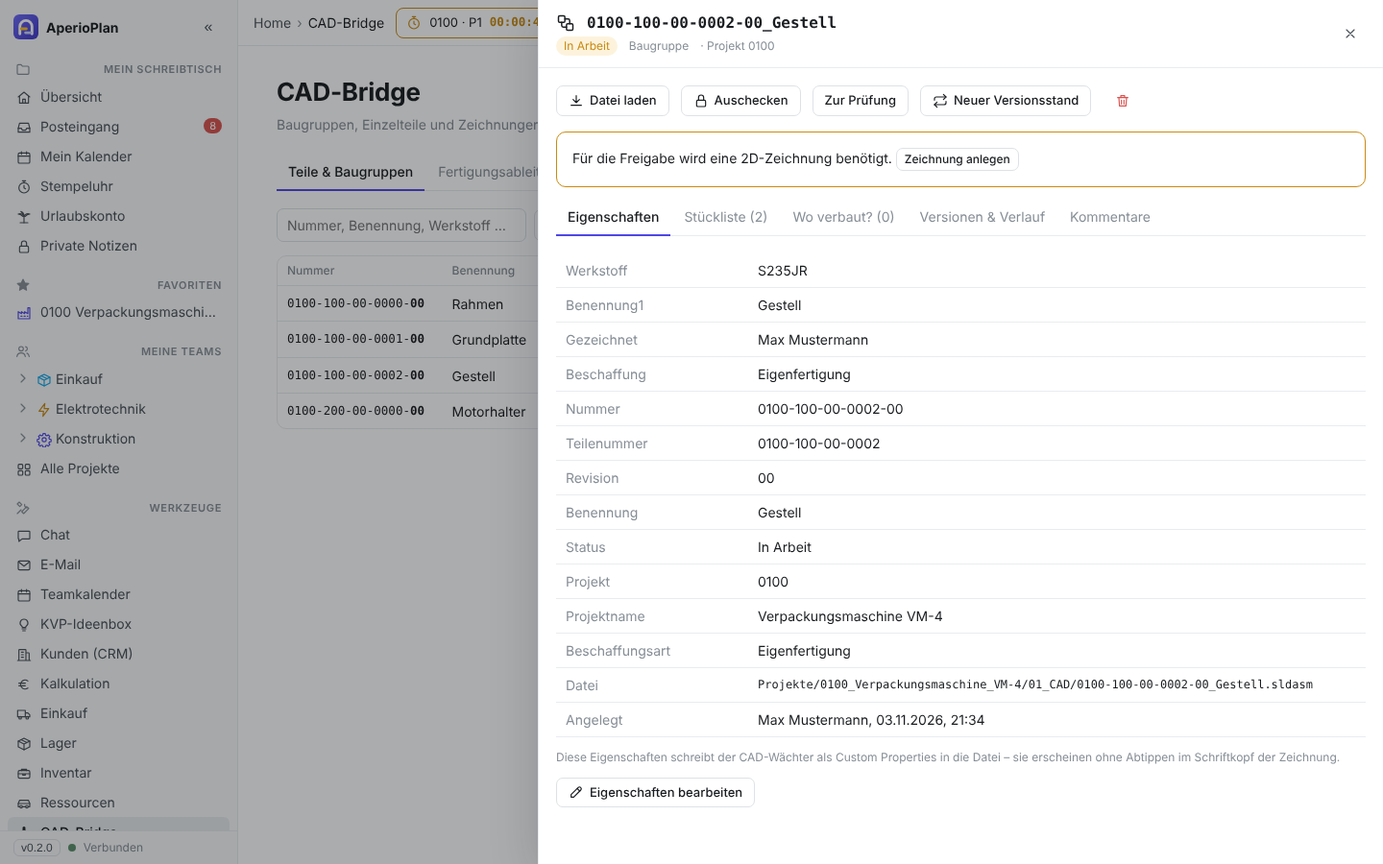
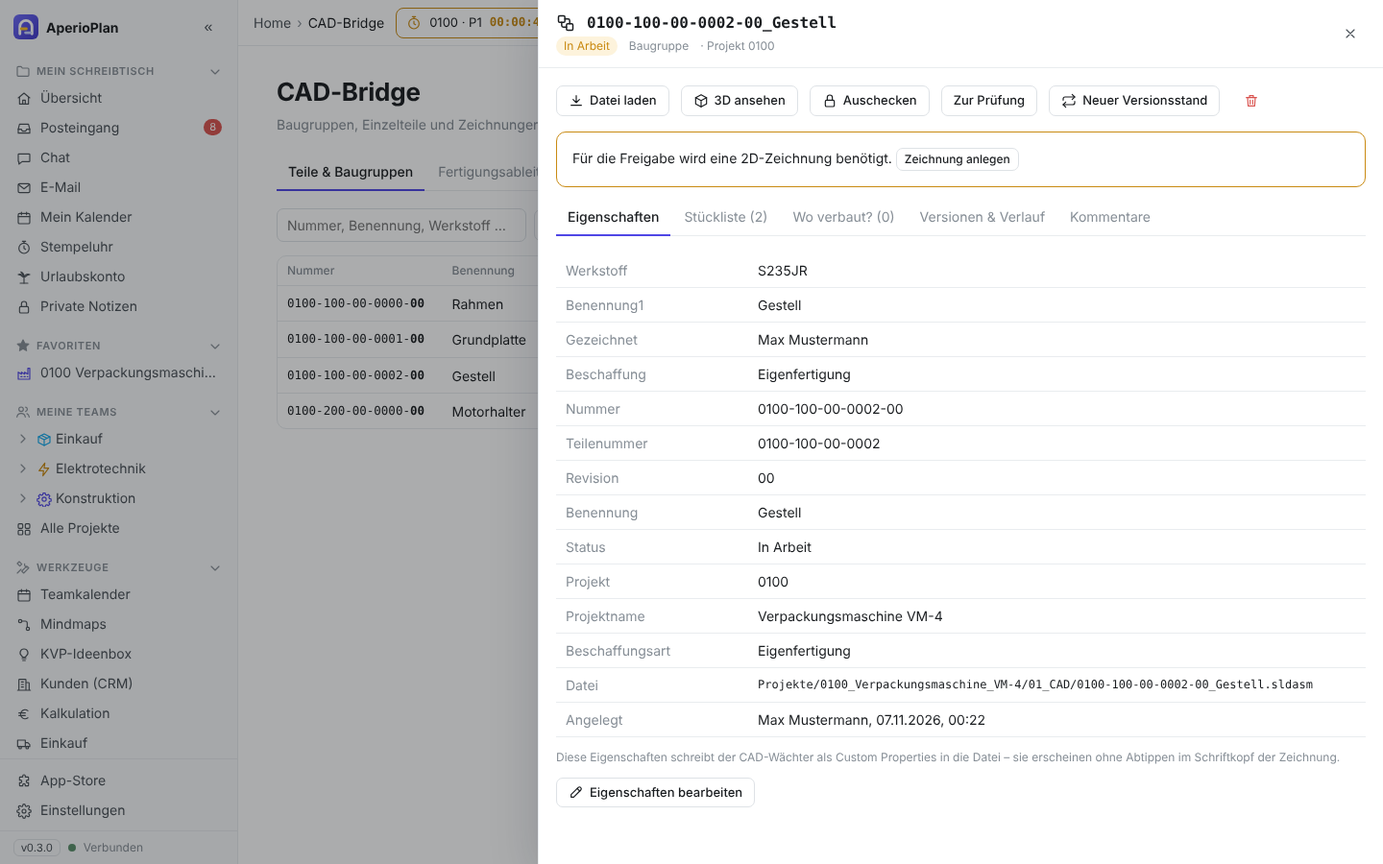
Version 0.3.0: Apps in Projekten, Lager und Einkauf verbunden, 3D-Ansicht im Fenster, Mindmaps wie FreeMind – Handbücher und Bildschirmfotos
Claude-Session: https://claude.ai/code/session_01P44qXYJYH4W67dASVBR164

diff --git a/shared/src/version.ts b/shared/src/version.ts
@@ -12,6 +12,26 @@ export interface ChangelogEntry {
 
 export const CHANGELOG: ChangelogEntry[] = [
   {
+    version: '0.3.0',
+    date: '2026-11-07',
+    title: 'Apps in Projekten, Lager und Einkauf verbunden, 3D-Ansicht und Mindmaps wie FreeMind',
+    changes: [
+      { type: 'neu', text: 'Apps als Reiter im Projekt: Verkauf (Angebote, Rechnungen, Reklamationen), Material, Service, Qualität, Fertigung, Änderungen, Reisekosten, Freigaben, Unterschriften, CO₂, Eingangsrechnungen, Ressourcen und Meetings – jeweils nur mit den Einträgen dieses Projekts, mit Anlegen und Status' },
+      { type: 'neu', text: 'Mit „+“ am Ende der Reiterleiste blendet die Projektleitung weitere Reiter ein; die Standard-Reiter für neue Projekte legt der Administrator fest' },
+      { type: 'neu', text: 'Gesamtübersichten (Einkauf, Angebote, Rechnungen, Service, Qualität, Fertigung, Änderungen, Freigaben, Spesen, E-Signatur, Eingangsrechnungen) lassen sich nach Projekt gruppieren' },
+      { type: 'neu', text: 'Einkauf: Lagerbestellungen ohne Projekt, Positionen mit Lagerartikel und Lagerort; Wareneingang mit Lieferschein, Charge und Seriennummern – wahlweise ins Lager oder gleich ins Projekt' },
+      { type: 'neu', text: 'Verlauf je Bestellposition: Änderungen, Bestellung, Lieferungen und Lagerbewegungen auf einen Blick' },
+      { type: 'neu', text: 'Lager: Nachbestellen direkt am Artikel, Bestellvorschlag als Lagerbestellung, Reiter „Material“ im Projekt mit Entnahme und Rückgabe' },
+      { type: 'neu', text: 'E-Rechnungen mit einer Bestellnummer aus dem Einkauf werden automatisch dem Projekt zugeordnet' },
+      { type: 'neu', text: '3D-Dateien öffnen sich im selben Fenster wie Word-Dateien – mit Schnitt und Messen; zusätzlich FBX, Collada, VRML, AMF, 3DS, VTK und USDZ' },
+      { type: 'neu', text: 'Native CAD-Dateien (SolidWorks, Inventor, Solid Edge, CATIA, Parasolid, JT u. a.): sofort mit dem gespeicherten Vorschaubild, als 3D-Modell nach Umwandlung durch einen CAD-Arbeitsplatz (neuer Umwandlungsdienst der CAD-Bridge)' },
+      { type: 'neu', text: 'Mindmaps wie FreeMind: Schrift, Farben, Formen, Linienarten, Symbole, Prioritäten, Wolken, Pfeile, Verknüpfungen, Attribute, Erinnerungen, Zeitstempel, Suche und Filter, Tabellenansicht, Klappen nach Ebenen, Kopieren und Einfügen' },
+      { type: 'neu', text: 'Mindmaps exportieren als PNG, SVG, PDF, HTML, Markdown, Text und FreeMind (.mm); FreeMind- und Freeplane-Dateien einlesen' },
+      { type: 'verbessert', text: 'Seitenleiste: E-Mail und Chat unter „Mein Schreibtisch“, App-Store und Einstellungen eigener Bereich, Abschnitte einklappbar' },
+      { type: 'verbessert', text: 'Der 3D-Viewer ist keine eigene App mehr – die 3D-Ansicht steht allen zur Verfügung' },
+    ],
+  },
+  {
     version: '0.2.1',
     date: '2026-11-04',
     title: 'Ältere Versionen installieren',

diff --git a/docs/ANWENDER.md b/docs/ANWENDER.md
@@ -22,14 +22,16 @@ Unter **Einstellungen → Profil** stellen Sie Sprache (Deutsch/Englisch) und Fa
 ┌────────────────────┬──────────────────────────────────────────────────────┐
 │ Seitenleiste       │ Brotkrumen-Pfad        Blitzsuche   Glocke   Profil  │
 │  Mein Schreibtisch ├──────────────────────────────────────────────────────┤
-│  Meine Teams       │                                                      │
-│  Werkzeuge         │                 Arbeitsbereich                       │
-│                    │                                                      │
-│ v0.2.0 ● Verbunden │                                                      │
+│  Favoriten         │                                                      │
+│  Meine Teams       │                 Arbeitsbereich                       │
+│  Werkzeuge         │                                                      │
+│  App-Store         │                                                      │
+│  Einstellungen     │                                                      │
+│ v0.3.0 ● Verbunden │                                                      │
 └────────────────────┴──────────────────────────────────────────────────────┘
 ```
 
-* **Seitenleiste:** Schnellzugriff auf Ihren Schreibtisch, Ihre Teams mit Projekten und die Werkzeuge. Mit `«` oder **Strg + \\** einklappen, mit dem Menü-Symbol wieder öffnen.
+* **Seitenleiste:** Schnellzugriff auf Ihren Schreibtisch, Ihre Teams mit Projekten und die Werkzeuge. Ein Klick auf eine Überschrift (z. B. **Werkzeuge**, **Favoriten**, **Meine Teams**) klappt den Abschnitt ein oder aus – AperioPlan merkt sich das. App-Store und Einstellungen stehen getrennt ganz unten. Mit `«` oder **Strg + \\** klappen Sie die ganze Leiste ein, mit dem Menü-Symbol wieder auf.
 * **Brotkrumen-Pfad:** zeigt immer, wo Sie gerade sind – jeder Teil ist anklickbar.
 * **Blitzsuche – Strg + K:** zwei Buchstaben genügen, um zu einem Projekt, einer Baugruppe, einer Aufgabe, Datei oder einem Kollegen zu springen. Mit Pfeiltasten auswählen, Enter öffnet.
 * **Glocke:** neue Aufgaben, Erwähnungen, Freigaben und Genehmigungen.
@@ -42,6 +44,7 @@ Unter **Einstellungen → Profil** stellen Sie Sprache (Deutsch/Englisch) und Fa
 
 * **Übersicht:** Begrüßung, Stempeluhr, Ihre offenen Aufgaben, Favoriten.
 * **Posteingang:** alle Benachrichtigungen.
+* **Chat** und **E-Mail:** Ihre Unterhaltungen und Ihr Postfach.
 * **Mein Kalender:** Fristen Ihrer Aufgaben, eigene Abwesenheiten, Feiertage.
 * **Stempeluhr, Urlaubskonto, Private Notizen** (nur für Sie sichtbar).
 
@@ -77,7 +80,31 @@ Projekte markieren Sie mit dem Stern neben dem Namen als Favorit.
 | Dokumente | Schriftverkehr, Verträge, Berichte mit Nummer (`0100-DOK-001`) |
 | Änderungsprotokoll | Wer hat wann was geändert? |
 
-Welche Reiter ein Projekt hat, legen Projektverantwortliche unter **Einstellungen** im Projekt fest.
+### Apps im Projekt
+
+Viele Apps aus dem App-Store haben zusätzlich einen eigenen Reiter im Projekt. Dort sehen Sie **nur die Einträge dieses Projekts**, legen neue an (das Projekt ist schon eingetragen), ändern den Status und verfolgen den Stand. Die **Gesamtübersicht über alle Projekte** bleibt links unter **Werkzeuge** – dort lassen sich die Listen mit **nach Projekt gruppieren** nach Projekten ordnen.
+
+| Reiter | App | Was Sie im Projekt sehen und tun |
+|---|---|---|
+| Einkauf | Einkauf | Bestellpositionen mit Status, Liefertermin, Wareneingang und Verlauf |
+| Verkauf | Kunden (CRM) | Angebote, Rechnungen, Verkaufschancen und Reklamationen zum Projekt. Die Kontakte bleiben im CRM |
+| Material | Lager | was für das Projekt aus dem Lager entnommen oder zurückgegeben wurde |
+| Service | Service-Einsätze | Montage, Inbetriebnahme und Service beim Kunden |
+| Qualität | Qualität | Prüfungen und 8D-Reports |
+| Fertigung | Fertigung | Fertigungsaufträge |
+| Änderungen | Änderungsmanagement | Änderungsanträge |
+| Reisekosten | Spesen | Abrechnungen zum Projekt (Projektleitung sieht alle, sonst die eigenen) |
+| Freigaben | Freigaben | Anträge zum Projekt, z. B. Anschaffungen |
+| Unterschriften | E-Signatur | Dokumente des Projekts zur Unterschrift |
+| CO₂ | Nachhaltigkeit | Emissionen des Projekts |
+| Eingangsrechnungen | Finanzbuchhaltung | Lieferantenrechnungen zum Projekt |
+| Ressourcen | Ressourcen | gebuchte Fahrzeuge, Räume und Geräte |
+| Meetings | Meetings | Besprechungen zum Projekt |
+| Mindmaps | Mindmaps | Mindmaps des Projekts |
+
+![Verkauf im Projekt](screenshots/39-projekt-verkauf.png)
+
+Reiter erscheinen nur für Apps, die bei Ihnen installiert sind und die Sie benutzen dürfen. **Weitere Reiter einblenden:** Projektverantwortliche klicken auf **＋** am Ende der Reiterleiste und wählen die App. Welche Reiter ein Projekt hat und in welcher Reihenfolge, steht unter **Einstellungen** im Projekt.
 
 ### Aufgaben
 
@@ -92,6 +119,7 @@ Welche Reiter ein Projekt hat, legen Projektverantwortliche unter **Einstellunge
 
 * **Hochladen:** Dateien einfach in das Fenster ziehen oder „Hochladen“ wählen. Gleichnamige Dateien werden nicht überschrieben, sondern als neue **Version** gespeichert (v2, v3 …) – ältere Stände bleiben abrufbar.
 * **Vorschau:** PDFs, Bilder und Videos öffnen sich direkt im Browser.
+* **3D-Dateien** öffnen sich mit einem Klick **im selben Fenster** (wie Word-Dateien); **Zurück** führt in den Ordner. Siehe [3D-Ansicht](#5a-3d-ansicht).
 * **Sperren (Schloss):** verhindert, dass Kollegen eine Datei gleichzeitig bearbeiten.
 * **Office (Bearbeiten-Knopf):** Word-, Excel- und PowerPoint-Dateien im Browser bearbeiten (falls eingerichtet).
 * Gelöschte Dateien landen im Papierkorb des Projekts.
@@ -106,6 +134,23 @@ Welche Reiter ein Projekt hat, legen Projektverantwortliche unter **Einstellunge
 | Gastzugang | Kunden, Statiker oder Partner sehen nur die freigegebenen Bereiche (Dateien, freigegebene Zeichnungen, Termine) |
 
 Jeder Link kann ein **Passwort**, ein **Ablaufdatum** und eine **maximale Anzahl Nutzungen** erhalten und jederzeit widerrufen werden. Bei Uploads über einen Anforderungslink werden Sie benachrichtigt.
+
+## 5a. 3D-Ansicht
+
+Ein Klick auf eine 3D-Datei im Projektordner, in der CAD-Zentrale (**3D ansehen**), bei Dokumenten oder E-Mail-Anhängen öffnet die 3D-Ansicht im ganzen Fenster:
+
+* **Drehen** mit der linken Maustaste, **Verschieben** mit der rechten, **Zoomen** mit dem Mausrad.
+* **Iso, Vorne, Oben, Rechts** und **Einpassen** wechseln die Ansicht.
+* **Schnitt X/Y/Z** schneidet das Modell auf, der Schieberegler verschiebt die Schnittebene.
+* **Messen:** zwei Punkte anklicken – Abstand und Maße in X, Y und Z in Millimetern.
+* **Baugruppe:** Teile im Baum ein- und ausblenden, Doppelklick zeigt nur dieses Teil; **Explosion** zieht Baugruppen auseinander.
+* Das Bild-Symbol speichert die aktuelle Ansicht als PNG.
+
+![3D-Ansicht](screenshots/43-3d-ansicht.png)
+
+**Direkt angezeigt** werden STEP, IGES, BREP, STL, OBJ, glTF/GLB, 3MF, PLY, FBX, Collada (DAE), VRML (WRL), AMF, 3DS, VTK und USDZ.
+
+**Native CAD-Dateien** (SolidWorks `.sldprt`/`.sldasm`, Inventor `.ipt`/`.iam`, Solid Edge `.par`/`.psm`/`.asm`, CATIA `.CATPart`/`.CATProduct`, Creo und NX `.prt`, Parasolid, ACIS, JT) kann nur das jeweilige CAD-Programm lesen. AperioPlan zeigt sofort das **Vorschaubild**, das das Programm in der Datei gespeichert hat. Gleichzeitig wird die Datei zur Umwandlung vorgemerkt: Ein Rechner mit dem CAD-Programm (Umwandlungsdienst, richtet Ihr Administrator ein) macht daraus einmalig ein STEP-Modell – danach lässt sie sich wie oben drehen, schneiden und messen. Für Creo und NX gibt es noch keine Umwandlung, dort bleibt es beim Vorschaubild.
 
 ## 6. CAD-Zentrale (SolidWorks)
 
@@ -225,8 +270,25 @@ Die folgenden Apps erscheinen in der Seitenleiste, sobald Ihre Firma sie install
 * **Telefonie:** Anrufe über die Firmen-Telefonanlage am PC führen; bekannte Anrufer werden aus dem CRM erkannt.
 * **Formulare:** Umfragen und Formulare erstellen, intern oder per Link verteilen, Ergebnisse auswerten.
 * **Schwarzes Brett:** Mitteilungen an alle und ein interner Marktplatz.
-* **Mindmaps** und **Wissensdatenbank:** Ideen sammeln; Anleitungen und Abläufe der Firma an einem Ort.
-* **3D-Viewer:** 3D-Modelle direkt im Browser drehen und ansehen.
+* **Mindmaps:** Ideen sammeln und ordnen – siehe unten.
+* **Wissensdatenbank:** Anleitungen und Abläufe der Firma an einem Ort.
+
+### Mindmaps
+
+In der Mitte steht das Thema, außen herum die Gedanken. Die Mindmaps orientieren sich an FreeMind; Dateien lassen sich mit FreeMind und Freeplane austauschen.
+
+* **Bearbeiten mit der Tastatur:** **Tab** legt einen Unterpunkt an, **Enter** einen Punkt auf gleicher Ebene, einfach **lostippen** oder **F2** ändert den Text, **Entf** löscht, **Leertaste** klappt ein und aus, **Pfeiltasten** wechseln, **Strg + ↑/↓** verschiebt einen Punkt unter seinen Nachbarn. Mit der Maus ziehen Sie Punkte auf andere.
+* **Kopieren und Einfügen:** **Strg + C / X / V** kopiert, schneidet aus und fügt Teilbäume ein – auch zwischen Mindmaps. Text aus Word oder einer Liste wird beim Einfügen zur Gliederung.
+* **Rückgängig:** Strg + Z, Wiederholen: Strg + Y.
+* **Details → Aussehen:** Farbe des Astes, Textfarbe, Hintergrund, **fett** (Strg + B) und *kursiv* (Strg + I), Schriftgröße, Form (Kasten, Blase, Linie), Verbindungslinie (Kurve, Gerade, Eckig) und Stärke, **Wolke** um einen ganzen Ast und **Symbole** wie Idee, Frage, Wichtig, Ziel oder **Priorität 1–5**.
+* **Details → Inhalt:** Notiz, Link (Webseite, E-Mail oder Seite in AperioPlan), **Verknüpfung** zu einem anderen Punkt (Klick auf den Pfeil springt hin), **Attribute** (Name und Wert, z. B. *Kosten: 2.400 €*), **Erinnerung** mit Datum und Uhrzeit (alle, mit denen die Mindmap geteilt ist, bekommen dann eine Nachricht), **Pfeile** zu beliebigen anderen Punkten mit Beschriftung, und im Projekt **Als Aufgabe anlegen**. Wann ein Punkt angelegt und zuletzt geändert wurde, steht darunter.
+* **Ansicht:** Alles aufklappen, Alles einklappen, Eine Ebene mehr oder weniger zeigen (für den gewählten Punkt und alles darunter), **Als Tabelle** – alle Punkte untereinander mit Notizen, Attributen und Erinnerungen.
+* **Suchen (Strg + F):** findet Text in Punkten, Notizen und Attributen; Enter springt zum nächsten Treffer und klappt den Weg dorthin auf. **Filter** blendet alles andere ab.
+* **Datei:** Exportieren als Bild (PNG), Vektorgrafik (SVG), PDF, Webseite (HTML), Gliederung (Markdown), Text oder FreeMind-Datei (.mm). **Importieren** fügt eine FreeMind-Datei oder eine Gliederung unter dem gewählten Punkt ein. Eine neue Mindmap können Sie auch **aus einer Datei** anlegen.
+
+![Mindmap](screenshots/44-mindmap.png)
+
+Mindmaps lassen sich mit Kollegen teilen (nur ansehen oder bearbeiten) oder einem Projekt zuordnen. Ändern zwei Personen gleichzeitig, lädt AperioPlan die neueste Fassung und weist darauf hin.
 
 ### Freigaben (Anträge)
 
@@ -285,10 +347,14 @@ Hat Ihre Firma eigene Felder angelegt (z. B. *Kostenstelle* am Projekt oder *Kun
 
 ### Lager, Fahrzeuge, Finanzen
 
-* **Lager:** Bestände je Lagerort, Zugang, Entnahme und Umlagern, Etiketten mit QR-Code.
+* **Lager:** Bestände je Lagerort, Zugang, Entnahme und Umlagern, Etiketten mit QR-Code. Am Artikel stehen die **offenen Bestellungen** (mit Bestellnummer, Lieferant und Projekt); **Nachbestellen** legt eine Lagerbestellung im Einkauf an. Der **Bestellvorschlag** zeigt, was unter den Mindestbestand fällt.
+* **Einkauf:** Unter **Alle Positionen** sehen Sie alle Bestellungen, nach Projekt geordnet; Bestellungen fürs Lager ohne Projekt stehen unter **Lagerbestellungen**. Eine Position kann mit einem **Lagerartikel** verknüpft sein – dann übernimmt AperioPlan Benennung, Lieferant und Preis.
+* **Wareneingang:** In der Bestellposition (oder im Lager unter **Wareneingang**) Menge, Datum und **Lieferschein-Nr.** eintragen und wählen, was mit der Ware passiert: **ins Lager einlagern**, **einlagern und gleich fürs Projekt entnehmen** oder **nur den Eingang buchen**. Bei Artikeln mit Charge oder Seriennummern werden diese abgefragt; fehlt der Lagerartikel, legt AperioPlan ihn an. Unter **Verlauf und Warenfluss** sehen Sie für jede Position, wann sie bestellt, geliefert, eingelagert und entnommen wurde.
+
+![Wareneingang](screenshots/42-wareneingang.png)
 * **Inventar:** Geräte und Maschinen mit Prüfterminen, Übergabe an Mitarbeiter, Abschreibung.
 * **Fuhrpark:** Fahrten ins elektronische Fahrtenbuch eintragen (Beginn, Ende, Zweck), Tankbelege und Schäden melden. Das Fahrtenbuch lässt sich nachträglich nicht ändern – nur die letzte Fahrt der vergangenen 7 Tage kann gelöscht werden.
-* **Rechnungen und Finanzen:** für die Buchhaltung – Rechnungen als E-Rechnung, Eingangsrechnungen freigeben, Zahlungen zuordnen, Mahnungen.
+* **Rechnungen und Finanzen:** für die Buchhaltung – Rechnungen als E-Rechnung, Eingangsrechnungen freigeben, Zahlungen zuordnen, Mahnungen. Eine Eingangsrechnung gehört zu einem Projekt, wenn Sie sie im Projekt hochladen, im Beleg das Projekt wählen – oder automatisch, wenn eine E-Rechnung die Bestellnummer aus dem Einkauf enthält.
 * **Nachhaltigkeit:** Strom-, Gas- und Kraftstoffverbrauch und daraus die CO₂-Bilanz je Monat, Projekt und Standort.
 
 ![Fuhrpark](screenshots/37-fuhrpark.png)
@@ -303,3 +369,7 @@ Hat Ihre Firma eigene Felder angelegt (z. B. *Kostenstelle* am Projekt oder *Kun
 | Strg + Enter | Kommentar senden |
 | Enter / Umschalt + Enter | Chat: senden / neue Zeile |
 | Entf | Whiteboard: Auswahl löschen |
+| Tab / Enter | Mindmap: Unterpunkt / Punkt auf gleicher Ebene |
+| Strg + C / X / V | Mindmap: Teilbaum kopieren, ausschneiden, einfügen |
+| Strg + B / I | Mindmap: fett / kursiv |
+| Strg + F | Mindmap: suchen |

diff --git a/docs/ENTWICKLER.md b/docs/ENTWICKLER.md
@@ -57,9 +57,16 @@ Jedes Werkzeug ist eine App. Für eine neue App sind diese Stellen zu ergänzen:
 | `server/src/services/daily.ts` | tägliche Aufgabe in `DAILY_JOBS` (Erinnerungen, Fristen); sie muss selbst prüfen, ob die App installiert ist |
 | `server/src/services/backup.ts` | neue Tabellen in `BACKUP_TABLES` |
 | `web/src/pages/<App>.tsx` | Seite; Route in `web/src/App.tsx` |
+| Reiter im Projekt (optional) | Kennung in `PROJECT_TABS` (`shared/src/domain.ts`) und `PROJECT_TAB_INFO` (`shared/src/apps.ts`, mit `tool`); Bauteil `export function Project<App>({ project, canEdit }: TabProps)` in der Seite der App und Eintrag in `APP_TABS` (`web/src/modules/ProjectApps.tsx`, wird erst bei Bedarf geladen). Listen der Schnittstelle bekommen einen Filter `?projectId=` |
 | `server/test/`, `e2e/testplan.mjs` | Server-Test und ein Schritt im Browser-Test |
 
 **Öffentliche Seiten** (ohne Anmeldung) liegen auf dem Server unter `/api/pub/…` mit Begrenzung der Anfragen (`config: { rateLimit: … }`) und prüfen, ob die App installiert ist. In der Oberfläche fängt `App.tsx` den Pfad vor der Anmeldung ab (`/support`, `/book/`, `/event/`, `/jobs/`, `/sign/`). Formulare erhalten ein verstecktes Feld `website` gegen Spam-Programme.
+
+**Projekt-Reiter und ältere Versionen:** Die Spalte `projects.modules` enthält nur die Reiter, die schon 0.2 kannte (`PROJECT_MODULES`); die vollständige, geordnete Liste steht in `projects.tabs`. Gelesen wird über `projectTabsExpr()` (`server/src/services/projects.ts`), das beide zusammenführt – so bleiben Änderungen einer älteren Version erhalten. Gesamtübersichten gruppieren mit `<ProjectGroups rows tab>` und dem Schalter aus `useGrouping(key)`; Kopfzeile eines Reiters: `<TabHead>`.
+
+**Mindmaps:** Grunddaten (Text, Farbe, Notiz, Link, Aufgabe, Kinder) stehen in `mindmaps.data`, alle weiteren Eigenschaften je Knoten (Schrift, Formen, Symbole, Wolken, Pfeile, Attribute, Erinnerungen, Zeitstempel) in `mindmaps.node_props`. `splitMindmap()` und `mergeMindmap()` in `server/src/routes/mindmaps.ts` trennen und verbinden; ältere Versionen sehen nur die Grunddaten und lassen den Rest unangetastet. Import und Export (FreeMind .mm 1.0.1, HTML, Markdown, Text, PDF) liegen in `web/src/modules/MindmapFormats.ts`.
+
+**3D-Ansicht:** `open3D({ fileId | src | cadItemId })` aus `web/src/modules/View3D.tsx` öffnet `/view3d` im selben Fenster. Die Formatlisten stehen in `shared/src/view3d.ts`. Native CAD-Dateien: `GET /files/:id/view3d` (Art, Stand der Umwandlung), `GET /files/:id/view3d/preview` (Vorschaubild aus der Datei, `server/src/services/cadPreview.ts` liest auch Compound Files), `POST /files/:id/view3d/convert`, `GET /files/:id/view3d/model`. Der Umwandlungsdienst holt Aufträge mit `POST /view3d/conversions/claim` (`{worker, formats, programs}`) und meldet `POST /view3d/conversions/:id/complete` (multipart, STEP) bzw. `…/fail`.
 
 **Diagramme** zeichnet `web/src/modules/Chart.tsx` (Säulen, Balken, Linie) mit den Farben `--viz-1` bis `--viz-8` für hell und dunkel. **Eigene Felder** bindet `<CustomFields entity="…" id={…} />` aus `web/src/modules/CustomFields.tsx` in eine Detailansicht ein; neue Datensatzarten in `CF_ENTITIES` (`server/src/routes/studio.ts`) und in der Prüfbedingung der Tabelle `cf_fields` ergänzen.
 
@@ -84,6 +91,10 @@ Wichtige Endpunkte (Auswahl):
 | Freigabelinks | `GET/POST /projects/:id/links`, `DELETE /links/:id`, öffentlich: `/public/links/:token/…` |
 | CAD | `GET /cad/mask`, `POST /cad/numbers/preview`, `POST /cad/items`, `GET /cad/items?projectId=`, `GET /cad/resolve?fileName=`, `POST /cad/items/:id/checkout|checkin|undo-checkout|revise|state`, `GET /cad/items/:id/bom|where-used` |
 | Ableitungen | `POST /cad/exports/claim`, `POST /cad/exports/:id/complete|fail` |
+| 3D-Ansicht | `GET /files/:id/view3d`, `GET /files/:id/view3d/preview|model`, `POST /files/:id/view3d/convert`, `GET /view3d/cad/:id`; Umwandlungsdienst: `POST /view3d/conversions/claim`, `POST /view3d/conversions/:id/complete|fail`, `GET /view3d/workers` |
+| Einkauf | `GET/POST /purchasing/projects/:id/items`, `GET/POST /purchasing/stock/items` (Lagerbestellungen), `PATCH/DELETE /purchasing/items/:id`, `POST /purchasing/items/:id/receipts` (`{qty, deliveryNote, target: none|stock|project, locationId, lot, serials, articleId, createArticle}`), `GET /purchasing/items/:id/history`, `GET /purchasing/items?status=&articleId=`, `POST /purchasing/bulk` |
+| Lager | `GET /warehouse/incoming`, `POST /warehouse/receive`, `GET/POST /warehouse/reorder` (`projectId: null` = Lagerbestellung), `GET /warehouse/moves?projectId=`, `GET /warehouse/projects/:id/material` |
+| Mindmaps | `GET/POST /mindmaps` (`?projectId=`), `GET/PUT/PATCH/DELETE /mindmaps/:id` (PUT mit `version`, sonst 409), `PUT /mindmaps/:id/shares`, `POST /mindmaps/:id/duplicate` |
 | Zeit | `GET /time/current`, `POST /time/clock-in|clock-out`, `GET /time/entries`, `POST /time/corrections`, `GET /time/export` |
 | Urlaub | `GET /absences/balance`, `POST /absences`, `POST /absences/:id/decide`, `GET /calendar/team` |
 | Chat | `GET /chat/channels`, `GET/POST /chat/channels/:id/messages`, `POST /chat/direct` |
@@ -94,7 +105,8 @@ Wichtige Endpunkte (Auswahl):
 | Lohn | `/payroll/employees`, `/payroll/runs`, `/payroll/runs/:id/finalize|datev.csv|sepa`, `/me/payslips` |
 | Produktion, Service | `/maintenance/…`, `/quality/…`, `/manufacturing/…`, `/plm/…`, `/service/jobs`, `/helpdesk/tickets`, `/contracts`, `/booking/…`, `/events/…` |
 | Personal | `/expenses/reports`, `/planning/week|shifts`, `/hr/…`, `/me/hr`, `/training/…`, `/fleet/…` |
-| Freigaben | `GET /approvals/types`, `GET/POST /approvals/requests` (`?scope=mine|todo|all`), `POST /approvals/requests/:id/decide|withdraw` |
+| Projektfilter | `?projectId=` an `/crm/opportunities|quotes|cases|invoices`, `/service/jobs`, `/quality/inspections|8d`, `/manufacturing/orders`, `/plm/changes`, `/meetings`, `/finance/bills`, `/resources/bookings`, `/sustainability/entries`, `/esign/envelopes`; `?scope=project&projectId=` an `/expenses/reports` und `/approvals/requests`; `GET /sustainability/projects/:id` |
+| Freigaben | `GET /approvals/types`, `GET/POST /approvals/requests` (`?scope=mine|todo|all|project`), `POST /approvals/requests/:id/decide|withdraw` |
 | E-Signatur | `GET/POST /esign/envelopes` (multipart: `file`, `signers` als JSON), `POST /esign/envelopes/:id/send|remind|cancel`, `GET /esign/envelopes/:id/protocol`; öffentlich `/pub/sign/:token` |
 | Auswertungen | `GET /bi/sources`, `POST /bi/run` (`{source, dim, dim2, measure, period, chart}`), `GET/POST /bi/reports`, `POST /bi/export.xlsx` |
 | Eigene Felder | `GET/POST /custom-fields`, `GET/PUT /custom-values/:entity/:id` |
@@ -181,6 +193,8 @@ Typische Ereignisse: `project.create`, `task.create`, `task.update`, `cad.create
 ## CAD-Wächter erweitern
 
 Der API-Client in `cad-bridge/src/AperioPlan.Core` ist frei von externen Paketen und läuft unter .NET 4.8 und .NET 8. Er kann auch für Anbindungen anderer CAD-Systeme (Inventor, Creo …) verwendet werden – die Schnittstelle ist dieselbe wie für SolidWorks. Das Kommandozeilenwerkzeug `aperio-cad` zeigt alle Abläufe in kompakter Form.
+
+Der Umwandlungsdienst `cad-bridge/src/AperioPlan.ViewConverter` spricht die CAD-Programme spät gebunden über ihre Windows-Automatisierung an (`Type.GetTypeFromProgID` und `InvokeMember`) und braucht deshalb zum Bauen keine CAD-Bibliotheken. Ein weiteres Programm ergänzen: Klasse von `Converter` ableiten (ProgID, Dateiendungen, `ToStep`) und in `Converter.All()` eintragen; die Endungen zusätzlich in `VIEW3D_NATIVE` (`shared/src/view3d.ts`).
 
 ## Mehrsprachigkeit
 

diff --git a/docs/ADMINISTRATOR.md b/docs/ADMINISTRATOR.md
@@ -74,6 +74,8 @@ Jedes Werkzeug ist eine **App**. Eine neue Installation startet bewusst schlank 
 * **Entfernen** blendet die App aus. **Daten bleiben erhalten** und sind nach erneutem Installieren wieder da.
 * Manche Apps bauen auf anderen auf (z. B. Wartungsverträge auf CRM, Terminbuchung auf Kalender). Der App-Store weist darauf hin und installiert die Voraussetzung mit.
 * Wer von 0.1.x aktualisiert, behält alle bisher festen Werkzeuge (Kalender, Zeiterfassung, CAD-Bridge, CRM …) eingeschaltet.
+* **Apps im Projekt:** Viele Apps bringen zusätzlich einen Reiter für Projekte mit (Einkauf, Verkauf, Material, Service, Qualität, Fertigung, Änderungen, Reisekosten, Freigaben, Unterschriften, CO₂, Eingangsrechnungen, Ressourcen, Meetings, Mindmaps). In der Seitenleiste bleibt die Gesamtübersicht über alle Projekte. Welche Reiter neue Projekte bekommen, steht unter **Einstellungen → Allgemein & Nummern → Standard-Reiter**; im Projekt blenden Projektverantwortliche weitere mit **＋** ein.
+* Die **3D-Ansicht** ist seit 0.3.0 keine eigene App mehr, sondern steht allen zur Verfügung. Eine früher installierte App „3D-Viewer“ verschwindet einfach aus der Seitenleiste.
 * Eigene Erweiterungen lassen sich als ZIP hochladen (**Plugin hochladen**), siehe Entwickler-Handbuch.
 
 | Bereich | Apps |
@@ -82,7 +84,7 @@ Jedes Werkzeug ist eine **App**. Eine neue Installation startet bewusst schlank 
 | Kommunikation | Chat und Videoanrufe, Meetings (mit Gast-Link), Telefonie, E-Mail |
 | Kunden & Verkauf | CRM, Kalkulation, Kundenanfragen, Wartungs- und Serviceverträge, Terminbuchung, Messen und Veranstaltungen, E-Signatur |
 | Produktion & Service | Instandhaltung, Qualität, Fertigung, Service-Einsätze |
-| Technik | CAD-Bridge, PCB-Bridge, 3D-Viewer, Änderungsmanagement |
+| Technik | CAD-Bridge, PCB-Bridge, Änderungsmanagement |
 | Lager & Material | Einkauf, Lager, Inventar, Ressourcen, Fuhrpark |
 | Personal | Zeiterfassung, Urlaub, Lohnabrechnung, Spesen und Reisekosten, Einsatzplanung, Personal, Unterweisungen und Schulungen |
 | Finanzen | Finanzbuchhaltung, Nachhaltigkeit |
@@ -182,7 +184,7 @@ Dateien, die Mitarbeiter direkt im Windows-Explorer in Projektordner legen, ersc
 
 * Projektnummern fortlaufend (`0100`, `0200` …) oder mit Jahreszahl (`PRJ-2026-0042`).
 * Teilprojekte erhalten automatisch Buchstaben (`0100-A`, `0100-B`), Dokumente laufende Nummern (`0100-DOK-001`).
-* Welche Werkzeuge (Kanban, Gantt, Whiteboard, CAD …) bei neuen Projekten sofort aktiv sind.
+* **Standard-Reiter für neue Projekte:** welche Werkzeuge (Kanban, Gantt, Whiteboard, CAD …) und welche Apps (Einkauf, Verkauf, Service …) ein neues Projekt sofort als Reiter hat. Neu installierte Apps sind nicht automatisch dabei.
 * Nummernkreise der installierten Apps, z. B. Rechnungen `RE-{JJJJ}-{NNNN}`, Tickets `T{JJ}-{NNNNN}`, Anträge `FG-{JJ}-{NNNN}`, Unterschriftsvorgänge `ES-{JJ}-{NNNN}`. Platzhalter: `{JJJJ}`/`{JJ}` Jahr, `{NNNN}` laufende Nummer mit fester Stellenzahl. Rechnungsnummern werden lückenlos erst beim Festschreiben vergeben.
 
 ## 8. CAD-Zentrale und Speichermaske
@@ -198,6 +200,16 @@ Dateien, die Mitarbeiter direkt im Windows-Explorer in Projektordner legen, ersc
 Die Installation des CAD-Wächters auf den Konstruktions-PCs ist in `cad-bridge/README.md` beschrieben.
 
 **Export-Dienst:** Damit bei Freigaben automatisch PDF, DXF und STEP entstehen, muss auf einem Windows-Rechner mit SolidWorks `AperioPlan.ExportWorker.exe` laufen (z. B. als geplante Aufgabe „bei Anmeldung“). Offene Aufträge sieht man unter **CAD-Zentrale → Fertigungsableitungen**.
+
+### 3D-Ansicht und Umwandlungsdienst
+
+3D-Dateien öffnen sich im Browser im selben Fenster (STEP, IGES, STL, OBJ, glTF, 3MF, PLY, FBX, Collada, VRML, AMF, 3DS, VTK, USDZ). Native CAD-Dateien kann nur das jeweilige CAD-Programm lesen. Für sie zeigt AperioPlan zuerst das Vorschaubild aus der Datei und merkt die Datei zur Umwandlung nach STEP vor. Die Umwandlung übernimmt der **Umwandlungsdienst** `AperioPlan.ViewConverter.exe` aus dem CAD-Bridge-Paket:
+
+1. Auf einem Windows-Rechner, auf dem das CAD-Programm installiert und lizenziert ist, das CAD-Bridge-Paket entpacken.
+2. Einmal `aperio-cad config --server https://… --token ap_…` ausführen (API-Schlüssel eines Benutzers, der die Projekte sehen darf).
+3. `AperioPlan.ViewConverter.exe` starten – am besten als geplante Aufgabe „bei Anmeldung“ des Benutzers, unter dem das CAD-Programm läuft.
+
+Der Dienst erkennt selbst, welche Programme vorhanden sind: **SolidWorks** (Teile, Baugruppen, Parasolid, ACIS, JT), **Inventor** (Teile, Baugruppen), **Solid Edge** (Teile, Blechteile, Baugruppen, Parasolid, JT) und **CATIA V5** (CATPart, CATProduct). Für **Creo** und **NX** gibt es noch keine Umwandlung; dort bleibt es beim Vorschaubild. Baugruppen brauchen ihre Teile: Ist unter **Einstellungen → Speicherorte** ein Windows-Pfad (Netzlaufwerk) eingetragen, öffnet der Dienst die Datei direkt dort, sonst nur die heruntergeladene Einzeldatei. Jede Dateiversion wird nur einmal umgewandelt; das Ergebnis liegt in der Ablage unter `.aperio/view3d`.
 
 ## 9. Zeiterfassung, Urlaub, Feiertage
 
@@ -333,6 +345,8 @@ Die meisten Apps funktionieren sofort. Wer zusätzlich zum Administrator verwalt
 | **E-Signatur** | Erinnerung nach Tagen, Gültigkeit der Links | **Einfache elektronische Signatur:** gezeichnete Unterschrift, Zeitpunkt, IP-Adresse und SHA-256-Prüfsumme des Dokuments im Signaturprotokoll. Nicht ausreichend, wo das Gesetz Schriftform verlangt. Ohne eingerichteten E-Mail-Versand lassen sich die Links auch kopieren und selbst weitergeben. |
 | **Auswertungen** | – | Jeder sieht nur Daten, die er auch im jeweiligen Werkzeug sehen darf (z. B. eigene Arbeitszeiten). Berichte für alle freigeben dürfen Administratoren. |
 | **Eigene Felder** | Felder für Projekte, Kunden, Kontakte, Lagerartikel, Inventar, Tickets und Service-Einsätze | Erscheinen im Datensatz unter „Weitere Angaben“. |
+| **Einkauf und Lager** | – | Bestellungen fürs Lager ohne Projekt dürfen alle mit der App Einkauf oder Lager anlegen. Beim Wareneingang lässt sich wählen: einlagern, einlagern und gleich ins Projekt entnehmen oder nur den Eingang buchen. Lieferschein, Lagerort, Charge und Seriennummern stehen im Verlauf der Position. E-Rechnungen mit einer Bestellnummer aus dem Einkauf ordnet die Finanzbuchhaltung automatisch dem Projekt zu. |
+| **Mindmaps** | – | Erinnerungen an einzelnen Punkten melden sich minütlich bei allen, mit denen die Mindmap geteilt ist. Formatierung, Symbole, Wolken, Pfeile und Attribute liegen in einer eigenen Spalte – eine ältere Version, die eine Mindmap speichert, lässt sie unangetastet. |
 | **Nachhaltigkeit** | Verantwortliche, Basisjahr und Minderungsziel | Emissionsfaktoren vorbelegt (Umweltbundesamt: Strommix 2024 353 g/kWh, Verkehrsmittel; BAFA/KfW-Merkblatt CO₂-Faktoren: Erdgas, Heizöl, Diesel, Benzin, Fernwärme). Bei Ökostrom den Faktor des Versorgers eintragen. Tankbelege aus dem Fuhrpark und Dienstfahrten aus den Spesen werden nachts übernommen. |
 
 Öffentliche Seiten ohne Anmeldung – `/support`, `/book/…`, `/event/…`, `/jobs/…`, `/sign/…` – sind gegen massenhafte Anfragen begrenzt und funktionieren nur, solange die zugehörige App installiert ist. Damit Links in E-Mails stimmen, muss in der `.env` die Adresse `PUBLIC_URL` gesetzt sein (das Installationsskript erledigt das).

diff --git a/README.md b/README.md
@@ -34,19 +34,19 @@ Der Name kommt vom lateinischen *aperio* – „ich öffne, mache sichtbar“. A
 
 ## Was AperioPlan kann
 
-Jedes Werkzeug ist eine **App**. Eine neue Installation startet schlank mit **Chat** und **E-Mail**; alles Weitere schaltet der Administrator im **App-Store** mit einem Klick ein – und wieder aus, ohne dass Daten verloren gehen.
+Jedes Werkzeug ist eine **App**. Eine neue Installation startet schlank mit **Chat** und **E-Mail**; alles Weitere schaltet der Administrator im **App-Store** mit einem Klick ein – und wieder aus, ohne dass Daten verloren gehen. Viele Apps erscheinen zusätzlich als **Reiter im Projekt** (z. B. Einkauf, Verkauf, Service, Qualität) und zeigen dort nur die Einträge dieses Projekts; die Gesamtübersicht über alle Projekte bleibt in der Seitenleiste.
 
 ![App-Store](docs/screenshots/30-app-store.png)
 
 | Bereich | Apps |
 |---|---|
 | **Projekte** *(immer dabei)* | Automatische Projektnummern (`0100`, Teilprojekte `0100-A`), Kanban, Aufgabenliste, Gantt mit Abhängigkeiten, Whiteboard, Dateien mit Versionen und Freigabelinks, Office im Browser, Abschlussbericht |
-| **Zusammenarbeit** | Kalender mit Outlook-/Google-Abgleich, Schwarzes Brett mit Marktplatz, Formulare und Umfragen, Mindmaps |
+| **Zusammenarbeit** | Kalender mit Outlook-/Google-Abgleich, Schwarzes Brett mit Marktplatz, Formulare und Umfragen, Mindmaps nach dem Vorbild von FreeMind (Symbole, Wolken, Pfeile, Attribute, Erinnerungen, Export und Import als .mm) |
 | **Kommunikation** | Chat und Videoanrufe, Meetings mit Gast-Link und Warteraum, Telefonie über die Telefonanlage, E-Mail-Postfach mit Projektzuordnung |
 | **Kunden & Verkauf** | CRM mit Angeboten, Rechnungen als E-Rechnung (ZUGFeRD/XRechnung) und Reklamationen, Kalkulation, Kundenanfragen (Tickets), Wartungsverträge mit automatischer Rechnung, Terminbuchung per Link, Messen und Veranstaltungen, E-Signatur |
 | **Produktion & Service** | Instandhaltung mit Störmeldung per QR-Code, Qualität (Prüfpläne, Messmittel, 8D), Fertigungsaufträge, Service-Einsätze mit Unterschrift des Kunden |
-| **Technik** | CAD-Bridge für SolidWorks (Nummern, Speichermaske, Aus-/Einchecken, Stücklisten, Freigabe mit PDF/DXF/STEP), PCB-Bridge für KiCad, 3D-Viewer, Änderungsmanagement |
-| **Lager & Material** | Einkauf, Lager mit Lagerorten und Chargen, Inventar mit Prüfterminen, Ressourcen (Räume, Fahrzeuge, Geräte), Fuhrpark mit Fahrtenbuch |
+| **Technik** | CAD-Bridge für SolidWorks (Nummern, Speichermaske, Aus-/Einchecken, Stücklisten, Freigabe mit PDF/DXF/STEP), PCB-Bridge für KiCad, Änderungsmanagement, 3D-Ansicht im Browser mit Schnitt und Messen (auch native SolidWorks-, Inventor-, Solid-Edge- und CATIA-Dateien über einen CAD-Arbeitsplatz) |
+| **Lager & Material** | Einkauf mit Lagerbestellungen und Wareneingang (Lieferschein, Charge, Seriennummer, Verlauf je Position), Lager mit Lagerorten und Chargen, Inventar mit Prüfterminen, Ressourcen (Räume, Fahrzeuge, Geräte), Fuhrpark mit Fahrtenbuch |
 | **Personal** | Zeiterfassung mit gesetzlichen Regeln, Urlaub, Lohnabrechnung (Lohnsteuer nach PAP 2026), Spesen, Einsatzplanung, Personalakte mit Bewerbungen, Unterweisungen mit Nachweis |
 | **Finanzen** | Eingangsrechnungen mit Freigabe, Kontoauszug-Abgleich, Zahlungslauf, Mahnwesen, DATEV-Übergabe, CO₂-Bilanz |
 | **Wissen & Organisation** | Notizen, Wissensdatenbank, KVP-Ideenbox, Freigaben (Anträge), Auswertungen mit Diagrammen, eigene Felder, KI-Assistent (lokal oder extern) |
@@ -69,6 +69,9 @@ Alle Bilder zeigen erfundene Beispieldaten.
 | ![Kundenanfragen](docs/screenshots/33-kundenanfragen.png) **Kundenanfragen** – Tickets mit Antwortzeiten | ![Auswertungen](docs/screenshots/34-auswertungen.png) **Auswertungen** – eigene Berichte und Diagramme |
 | ![Nachhaltigkeit](docs/screenshots/35-nachhaltigkeit.png) **Nachhaltigkeit** – CO₂-Bilanz nach Scope 1 bis 3 | ![Freigaben](docs/screenshots/36-freigaben.png) **Freigaben** – Anträge mit mehrstufiger Genehmigung |
 | ![Fuhrpark](docs/screenshots/37-fuhrpark.png) **Fuhrpark** – Fahrzeuge, Kosten und Termine | ![E-Signatur](docs/screenshots/38-e-signatur.png) **E-Signatur** – Kunden unterschreiben im Browser |
+| ![Verkauf im Projekt](docs/screenshots/39-projekt-verkauf.png) **Verkauf im Projekt** – Angebote, Rechnungen und Reklamationen nur dieses Projekts | ![Einkauf im Projekt](docs/screenshots/40-projekt-einkauf.png) **Einkauf im Projekt** – Bestellungen mit Status, Liefertermin und Lagerartikel |
+| ![Einkauf nach Projekt](docs/screenshots/41-einkauf-nach-projekt.png) **Einkauf gesamt** – alle Bestellungen nach Projekt geordnet, Lagerbestellungen extra | ![Wareneingang](docs/screenshots/42-wareneingang.png) **Wareneingang** – mit Lieferschein und Seriennummern ins Lager oder direkt ins Projekt |
+| ![3D-Ansicht](docs/screenshots/43-3d-ansicht.png) **3D-Ansicht** – im selben Fenster drehen, schneiden und messen | ![Mindmap](docs/screenshots/44-mindmap.png) **Mindmaps** – Symbole, Wolken, Pfeile und Attribute wie in FreeMind |
 | ![Dunkelmodus](docs/screenshots/21-dunkel-kanban.png) **Dunkelmodus** – folgt auf Wunsch automatisch dem Betriebssystem | ![Anmeldung](docs/screenshots/01-anmeldung.png) **Anmeldung** – mit Firmenname, auf Wunsch über Active Directory |
 
 ## Installation
@@ -153,6 +156,8 @@ sudo git pull && sudo docker compose up -d --build
 ```
 
 > **Von 0.1.x auf 0.2.0:** Bisher genutzte Werkzeuge bleiben eingeschaltet. Die neuen Apps stehen im App-Store bereit und erscheinen erst, wenn der Administrator sie installiert.
+>
+> **Von 0.2.x auf 0.3.0:** Bestehende Projekte bekommen die Reiter **Verkauf** und **Mindmaps** (wo die Apps installiert sind) – bisher waren Rechnungen und Mindmaps dort fest eingeblendet. Weitere App-Reiter blendet die Projektleitung mit **＋** ein. Der 3D-Viewer ist keine eigene App mehr. Wer wieder auf 0.2.x wechselt, verliert keine Daten: Die neuen Reiter, Lagerbestellungen und die Mindmap-Formatierung werden dort nur nicht angezeigt.
 
 ## Deinstallieren
 

diff --git a/docs/TESTPLAN.md b/docs/TESTPLAN.md
@@ -2,14 +2,14 @@
 
 Der Testplan ist zweigeteilt:
 
-* **Automatische Server-Tests** (`pnpm test`, 164 Prüfungen: 131 Server in 34 Dateien, 33 Fachlogik) laufen gegen eine echte PostgreSQL-Datenbank.
-* **Browser-Test des Testplans** (`node e2e/testplan.mjs`, 50 Prüfungen) bedient die Oberfläche wie ein Mensch – inklusive echtem Videoanruf zwischen zwei Browsern.
+* **Automatische Server-Tests** (`pnpm test`, 218 Prüfungen: 185 Server in 38 Dateien, 33 Fachlogik) laufen gegen eine echte PostgreSQL-Datenbank.
+* **Browser-Test des Testplans** (`node e2e/testplan.mjs`, 53 Prüfungen) bedient die Oberfläche wie ein Mensch – inklusive echtem Videoanruf zwischen zwei Browsern.
 
 Beide laufen bei jedem Hochladen nach GitHub automatisch (GitHub Actions, `.github/workflows/ci.yml`), der Browser-Test lokal gegen eine frische Instanz.
 
 ## Ergebnis vom 03.11.2026 (Version 0.2.0)
 
-Alle 50 Schritte des Browser-Tests und alle 164 Server- und Fachlogik-Tests bestanden.
+Alle 53 Schritte des Browser-Tests und alle 218 Server- und Fachlogik-Tests bestanden (Version 0.3.0).
 
 | # | Prüfung | Ergebnis |
 |---|---|---|
@@ -51,8 +51,9 @@ Alle 50 Schritte des Browser-Tests und alle 164 Server- und Fachlogik-Tests best
 | 14.2 | Meeting mit Gast-Link: Gast wartet, wird eingelassen, beide sehen sich | bestanden |
 | 14.3 | Formular anlegen, öffentlich ausfüllen, Auswertung | bestanden |
 | 14.4 | Schwarzes Brett: Mitteilung mit Lesebestätigung, Marktplatz-Angebot | bestanden |
-| 14.5 | 3D-Viewer: Baugruppe öffnen, Teile im Baum, Messen | bestanden |
+| 14.5 | 3D-Ansicht: Baugruppe aus dem Projektordner im selben Fenster öffnen, Messen, native Datei mit Vorschau | bestanden |
 | 14.6 | Mindmap: mit Tastatur anlegen, speichern, als Gliederung exportieren | bestanden |
+| 14.6b | Mindmap wie FreeMind: fett, Symbol, Wolke, Attribut, Suche, Klappen, Export und Import als .mm | bestanden |
 | 14.7 | Wissensdatenbank: Artikel aus Vorlage, „/“-Befehl, Unterseite, Suche, öffentlicher Link | bestanden |
 | 14.8 | Lager: Lagerort, Artikel, Zugang, Entnahme fürs Projekt, Scan per Eingabe | bestanden |
 | 14.9 | Inventar: Gerät mit Prüftermin, Übergabe, Etikett | bestanden |
@@ -63,6 +64,8 @@ Alle 50 Schritte des Browser-Tests und alle 164 Server- und Fachlogik-Tests best
 | 14.14 | Service, Kundenanfragen, Verträge, Terminbuchung, Messe: Einsatz unterschreiben, Formular, Buchung | bestanden |
 | 14.15 | Spesen, Einsatzplanung, Personal, Unterweisungen, Fuhrpark: Abrechnung, Schicht, Bewerbung, Quiz, Fahrt | bestanden |
 | 14.16 | Freigaben, E-Signatur, Auswertungen, Eigene Felder, Nachhaltigkeit: Antrag, Unterschrift, Bericht, Feld, CO₂ | bestanden |
+| 14.17 | Apps im Projekt: Reiter mit „+“ einblenden, Angebot im Projekt, Gesamtübersicht nach Projekt | bestanden |
+| 14.18 | Lager und Einkauf: Lagerbestellung, Wareneingang mit Lieferschein ins Lager, Verlauf | bestanden |
 
 Zusätzlich durch Server-Tests abgedeckt: Teilprojekt-/Dokument-/Jahresnummern, Sichtbarkeit und Rechte,
 Abhängigkeiten mit Kreisbezugsschutz, Erwähnungen, Dateiversionen und Explorer-Abgleich, Pfadschutz,
@@ -79,6 +82,10 @@ Verpflegungspauschalen, Fahrtenbuch-Regeln (lückenlos, keine Überschneidung), 
 Löschfristen für Bewerbungen, mehrstufige Freigaben mit Wertgrenzen, E-Signatur nacheinander mit
 Signaturprotokoll, Rechte in den Auswertungen (eigene Zeiten), Prüfung eigener Felder, CO₂-Bilanz mit
 wiederholbarer Übernahme aus dem Fuhrpark und Vollständigkeit der Sicherung (jede Tabelle mit Primärschlüssel).
+Seit 0.3.0 zusätzlich: Projekt-Reiter bleiben beim Wechsel auf eine ältere Version erhalten, Projektfilter aller Apps,
+Lagerbestellungen und Wareneingang mit Seriennummern, Charge und Lieferschein, Verlauf je Bestellposition,
+E-Rechnung einem Projekt zuordnen, Vorschaubild aus nativen CAD-Dateien (auch Compound Files und Windows-Bitmaps),
+Umwandlungsauftrag für die 3D-Ansicht, Mindmap-Formatierung neben den Grunddaten und Mindmap-Erinnerungen.
 
 Das Installations- und Deinstallationsskript wurde mit `shellcheck` geprüft und in allen drei
 HTTPS-Varianten (eigenes Zertifikat, Let's Encrypt über DNS, Let's Encrypt öffentlich) mit
@@ -96,6 +103,7 @@ Diese Punkte benötigen Software bzw. Infrastruktur, die in der Entwicklungsumge
 |---|---|
 | SolidWorks-Add-in im echten SolidWorks | `cad-bridge` unter Windows bauen, `register.cmd`, Speichern eines neuen Teils, Zeichnung anlegen, Einchecken |
 | Export-Dienst PDF/DXF/STEP | `AperioPlan.ExportWorker.exe --once` nach einer Freigabe |
+| Umwandlungsdienst 3D-Ansicht | `AperioPlan.ViewConverter.exe --once` auf je einem Rechner mit SolidWorks, Inventor, Solid Edge bzw. CATIA V5; danach eine native Datei in AperioPlan öffnen – das 3D-Modell erscheint. Baugruppen vom Netzlaufwerk prüfen |
 | Installation und HTTPS | `sudo ./install.sh` auf dem Zielserver mit allen drei Wegen; Zertifikat im Browser prüfen, `aperioplan.local` von Windows/macOS aufrufen |
 | Let's Encrypt über DNS | Weg 2 mit echtem DuckDNS-/Cloudflare-Token; `docker compose logs caddy` zeigt „certificate obtained successfully“ |
 | Deinstallation | `sudo ./uninstall.sh` auf einem Testsystem; danach `docker ps -a` und `docker volume ls` leer |
